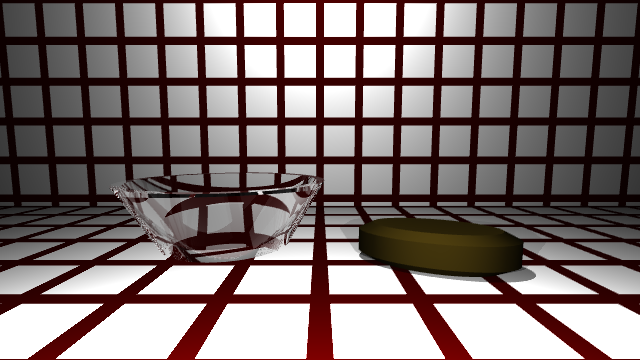
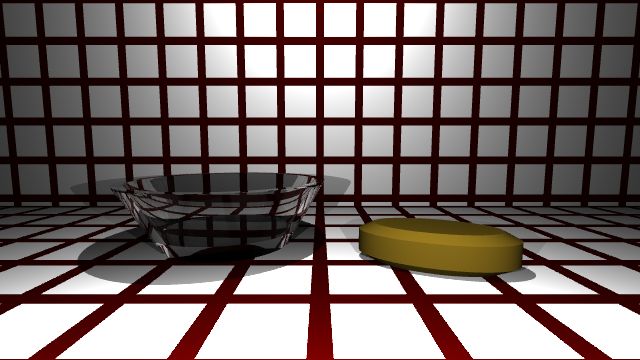
this fixes results for CSGScene for me
d'oh..

Changed region(s): [[0.125, 0.4583, 0.5625, 0.7944], [0.5625, 0.5806, 0.8438, 0.7639]]

diff --git a/rt/src/rt/testscenes/CSGScene.java b/rt/src/rt/testscenes/CSGScene.java
@@ -18,7 +18,7 @@ public class CSGScene extends Scene {
 	public CSGScene()
 	{
 		// Output file name
-		outputFilename = new String("../output/testscenes/CSGScene");
+		outputFilename = new String("../output/testscenes/CSGScene-mine");
 		
 		// Image width and height in pixels
 		width = 640;
@@ -55,11 +55,11 @@ public class CSGScene extends Scene {
 		// Place it in the scene
 		Matrix4f rot = new Matrix4f();
 		rot.setIdentity();
-		rot.rotX(-(float)Math.PI/2.f);
+		rot.rotX(-(float)Math.PI/2f + 1e-3f);
 		Matrix4f trans = new Matrix4f();
 		trans.setIdentity();
 		trans.setTranslation(new Vector3f(-1.5f, -1.5f, 0.f));
-		trans.mul(rot);		
+		trans.mul(rot);
 		doubleCone = new CSGInstance(doubleCone, trans);
 		
 		// Something like a"soap bar"

diff --git a/rt/src/rt/intersectables/Aggregate.java b/rt/src/rt/intersectables/Aggregate.java
@@ -22,7 +22,7 @@ public abstract class Aggregate implements Intersectable {
 		{
 			Intersectable o = it.next();
 			HitRecord tmp = o.intersect(r);
-			if(tmp!=null && tmp.t<t)
+			if(tmp!=null && tmp.t<t && tmp.t > 1e-5)
 			{
 				t = tmp.t;
 				hitRecord = tmp;

diff --git a/rt/src/rt/materials/Refractive.java b/rt/src/rt/materials/Refractive.java
@@ -85,7 +85,7 @@ public class Refractive implements Material {
 
 	@Override
 	public boolean castsShadows() {
-		return false;
+		return true;
 	}
 	
 	private float rSchlick(RefractionHandler rf) {

diff --git a/rt/src/rt/materials/XYZGrid.java b/rt/src/rt/materials/XYZGrid.java
@@ -93,7 +93,7 @@ public class XYZGrid implements Material {
 	@Override
 	public boolean castsShadows() {
 		// TODO Auto-generated method stub
-		return false;
+		return true;
 	}
 
 }
